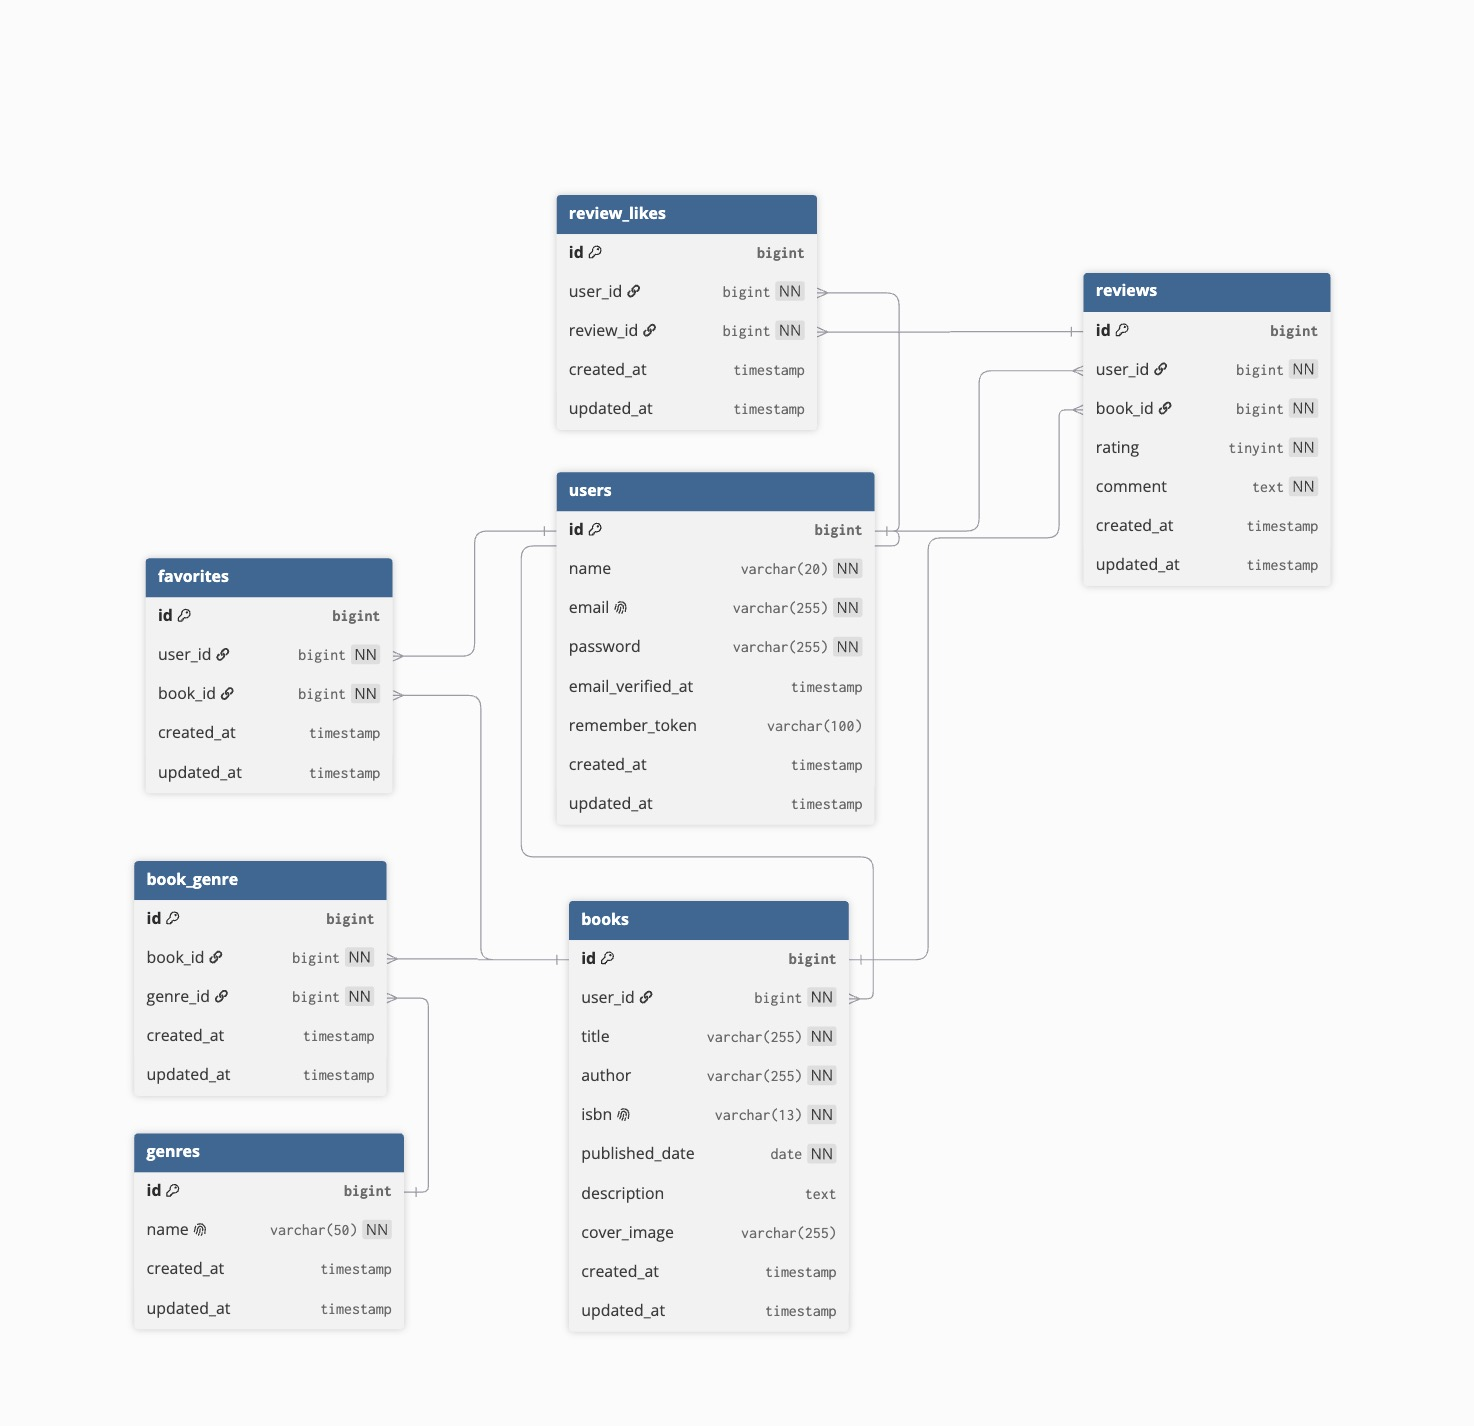
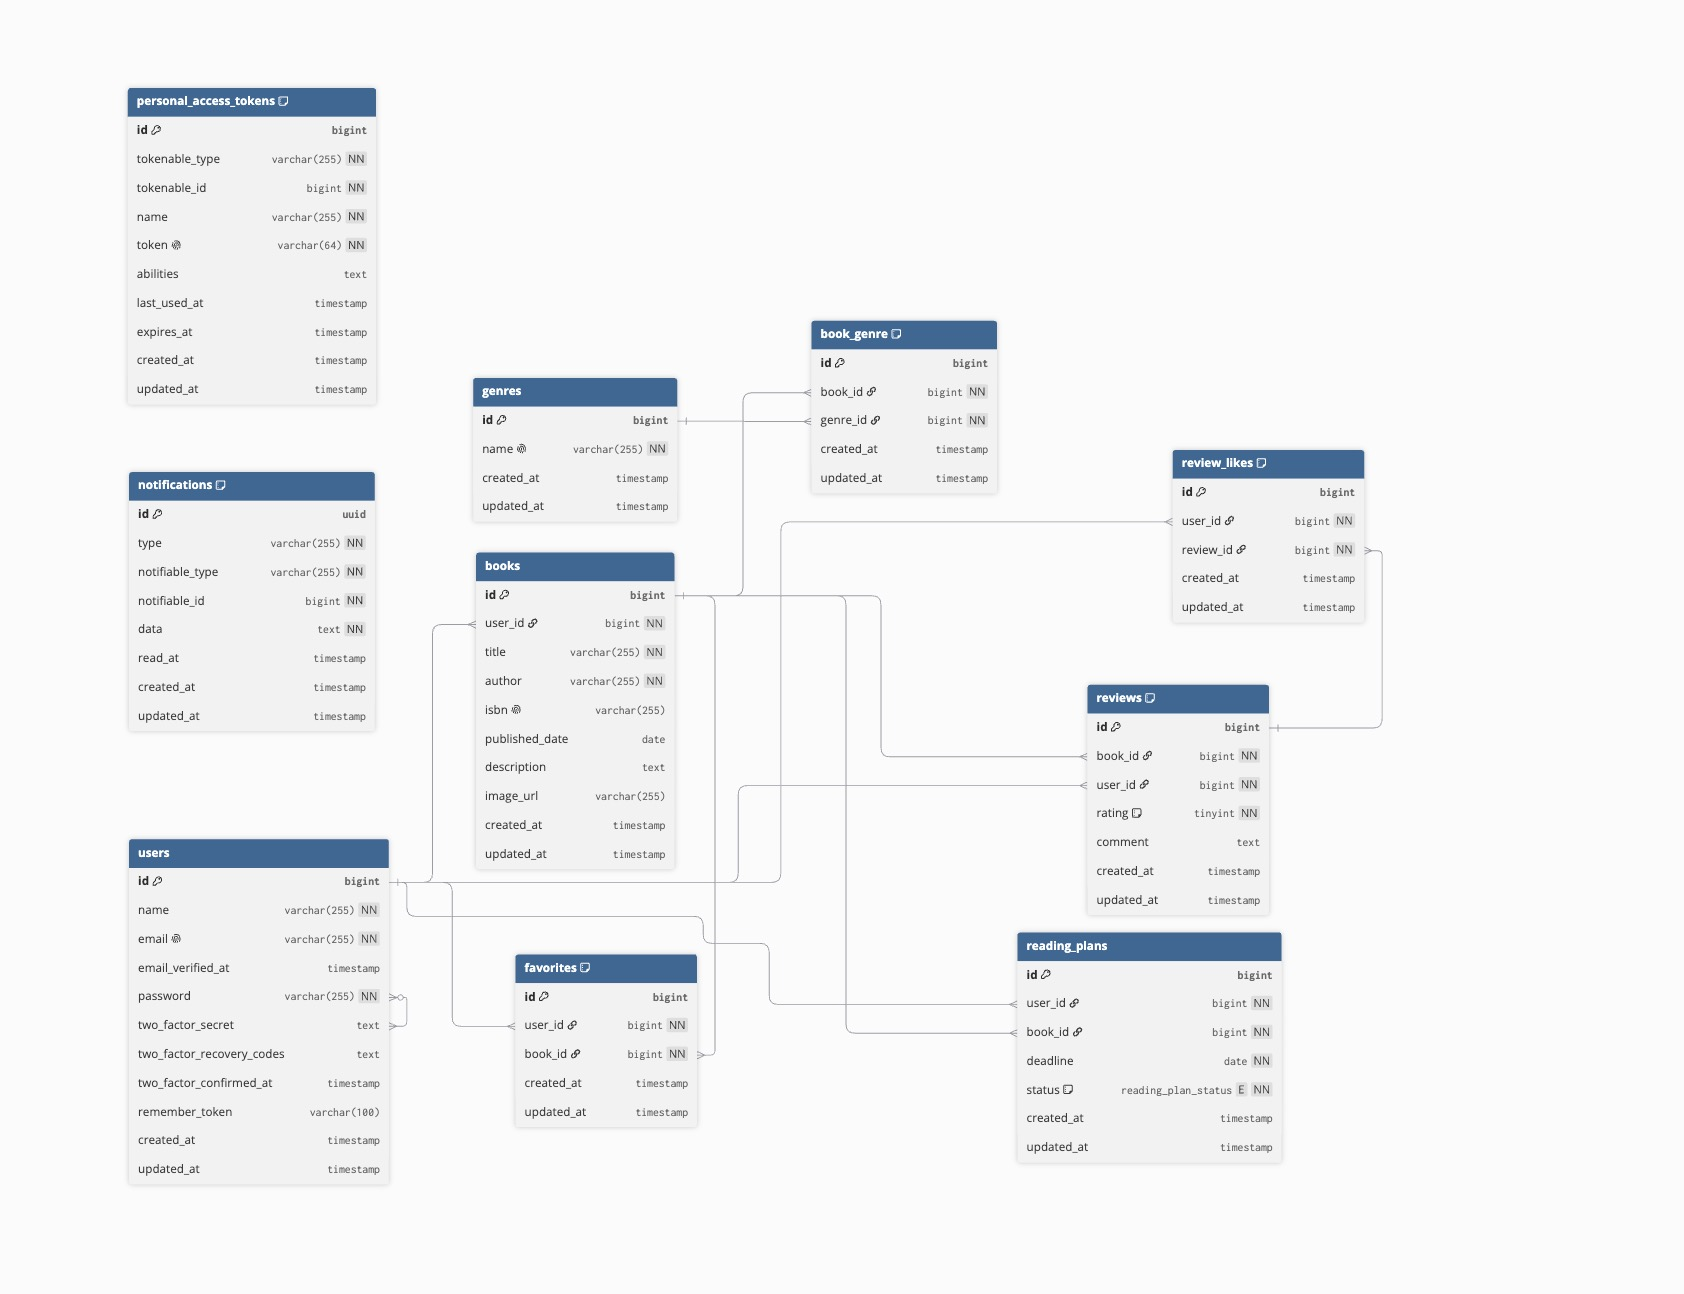
chore: 最終提出前の表示と初期データを調整

diff --git a/database/seeders/ReadingPlanSeeder.php b/database/seeders/ReadingPlanSeeder.php
@@ -13,50 +13,77 @@ class ReadingPlanSeeder extends Seeder
 {
     public function run(): void
     {
-        $users = User::query()->get();
-        $books = Book::query()->get();
+        $mainUser = User::query()
+            ->where('email', 'yamada@example.com')
+            ->first();
 
-        if ($users->isEmpty() || $books->isEmpty()) {
+        $otherUser = User::query()
+            ->where('email', 'suzuki@example.com')
+            ->first();
+
+        $books = Book::query()
+            ->orderBy('id')
+            ->get();
+
+        if (! $mainUser || $books->count() < 5) {
             return;
         }
 
-        $mainUser = $users->first();
-
-        ReadingPlan::create([
-            'user_id' => $mainUser->id,
-            'book_id' => $books->get(0)->id,
-            'deadline' => Carbon::today()->addDay(),
-            'status' => ReadingPlanStatus::Planning,
-        ]);
-
-        ReadingPlan::create([
-            'user_id' => $mainUser->id,
-            'book_id' => $books->get(1)->id,
-            'deadline' => Carbon::today()->addDays(3),
-            'status' => ReadingPlanStatus::Planning,
-        ]);
-
-        ReadingPlan::create([
-            'user_id' => $mainUser->id,
-            'book_id' => $books->get(2)->id,
-            'deadline' => Carbon::today()->subDay(),
-            'status' => ReadingPlanStatus::Expired,
-        ]);
-
-        ReadingPlan::create([
-            'user_id' => $mainUser->id,
-            'book_id' => $books->get(3)->id,
-            'deadline' => Carbon::today()->subDays(7),
-            'status' => ReadingPlanStatus::Completed,
-        ]);
-
-        if ($users->count() >= 2 && $books->count() >= 5) {
-            ReadingPlan::create([
-                'user_id' => $users->get(1)->id,
-                'book_id' => $books->get(4)->id,
+        ReadingPlan::updateOrCreate(
+            [
+                'user_id' => $mainUser->id,
+                'book_id' => $books->get(0)->id,
+            ],
+            [
                 'deadline' => Carbon::today()->addDay(),
                 'status' => ReadingPlanStatus::Planning,
-            ]);
+            ]
+        );
+
+        ReadingPlan::updateOrCreate(
+            [
+                'user_id' => $mainUser->id,
+                'book_id' => $books->get(1)->id,
+            ],
+            [
+                'deadline' => Carbon::today()->addDays(3),
+                'status' => ReadingPlanStatus::Planning,
+            ]
+        );
+
+        ReadingPlan::updateOrCreate(
+            [
+                'user_id' => $mainUser->id,
+                'book_id' => $books->get(2)->id,
+            ],
+            [
+                'deadline' => Carbon::today()->subDay(),
+                'status' => ReadingPlanStatus::Expired,
+            ]
+        );
+
+        ReadingPlan::updateOrCreate(
+            [
+                'user_id' => $mainUser->id,
+                'book_id' => $books->get(3)->id,
+            ],
+            [
+                'deadline' => Carbon::today()->subDays(7),
+                'status' => ReadingPlanStatus::Completed,
+            ]
+        );
+
+        if ($otherUser) {
+            ReadingPlan::updateOrCreate(
+                [
+                    'user_id' => $otherUser->id,
+                    'book_id' => $books->get(4)->id,
+                ],
+                [
+                    'deadline' => Carbon::today()->addDays(5),
+                    'status' => ReadingPlanStatus::Planning,
+                ]
+            );
         }
     }
 }

diff --git a/app/Http/Controllers/ReportController.php b/app/Http/Controllers/ReportController.php
@@ -2,8 +2,10 @@
 
 namespace App\Http\Controllers;
 
+use App\Enums\ReadingPlanStatus;
 use App\Models\Book;
 use App\Models\Genre;
+use App\Models\ReadingPlan;
 use App\Models\Review;
 use Illuminate\Support\Facades\Auth;
 use Illuminate\View\View;
@@ -11,7 +13,7 @@ use Illuminate\View\View;
 class ReportController extends Controller
 {
     /**
-     * ログインユーザーのレビュー履歴を集計し、読書レポート画面を表示する。
+     * ログインユーザーのレビュー履歴と読書計画を集計し、読書レポート画面を表示する。
      *
      * @return View 読書レポート画面
      */
@@ -26,10 +28,17 @@ class ReportController extends Controller
 
         $totalReviews = $reviews->count();
 
-        $completedBooks = $reviews
+        $completedBookIds = $reviews
             ->pluck('book_id')
-            ->unique()
-            ->count();
+            ->merge(
+                ReadingPlan::query()
+                    ->where('user_id', $userId)
+                    ->where('status', ReadingPlanStatus::Completed->value)
+                    ->pluck('book_id')
+            )
+            ->unique();
+
+        $completedBooks = $completedBookIds->count();
 
         $averageRating = $reviews->isNotEmpty()
             ? round($reviews->avg('rating'), 1)

diff --git a/resources/views/reports/index.blade.php b/resources/views/reports/index.blade.php
@@ -100,12 +100,13 @@
 
         .rating-row {
             display: grid;
-            grid-template-columns: 62px minmax(0, 1fr) 38px;
-            gap: 10px;
+            grid-template-columns: 96px minmax(0, 1fr) 44px;
+            gap: 12px;
             align-items: center;
         }
 
         .rating-stars {
+            width: 96px;
             color: #f2b500;
             font-size: 16px;
             font-weight: 700;
@@ -321,6 +322,16 @@
             .summary-grid,
             .genre-grid {
                 grid-template-columns: 1fr;
+            }
+
+            .rating-row {
+                grid-template-columns: 86px minmax(0, 1fr) 40px;
+                gap: 10px;
+            }
+
+            .rating-stars {
+                width: 86px;
+                font-size: 14px;
             }
         }
     </style>

diff --git a/app/Http/Resources/BookResource.php b/app/Http/Resources/BookResource.php
@@ -22,7 +22,7 @@ class BookResource extends JsonResource
             'id' => $this->id,
             'title' => $this->title,
             'author' => $this->author,
-            'isbn' => (string) $this->isbn,
+            'isbn' => $this->isbn,
             'published_date' => $this->published_date,
             'description' => $this->description,
             'image_url' => $this->image_url,

diff --git a/database/seeders/ReviewSeeder.php b/database/seeders/ReviewSeeder.php
@@ -43,7 +43,8 @@ class ReviewSeeder extends Seeder
 
             for ($i = 0; $i < $count; $i++) {
                 $user = $users[($bookIndex + $i) % $users->count()];
-                $rating = (($bookIndex + $i) % 5) + 1;
+
+                $rating = (($bookIndex * 2 + $i + 2) % 5) + 1;
 
                 Review::updateOrCreate(
                     [
